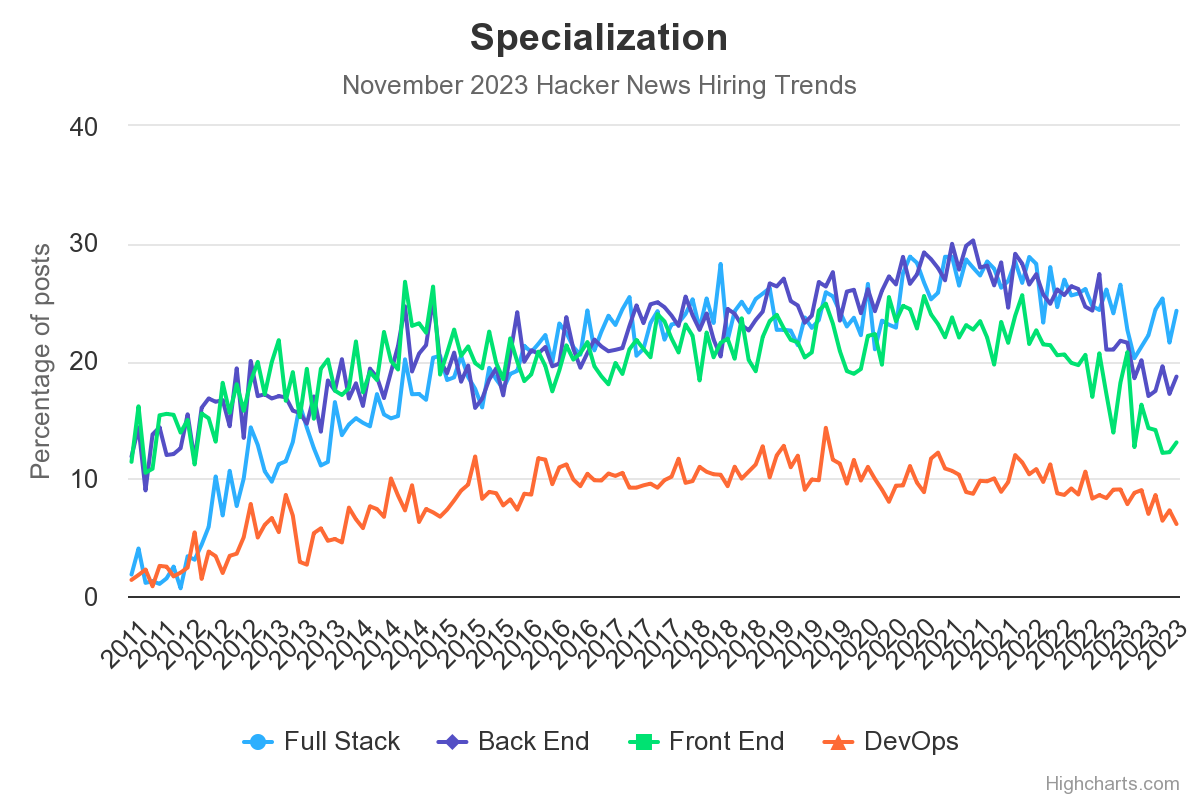
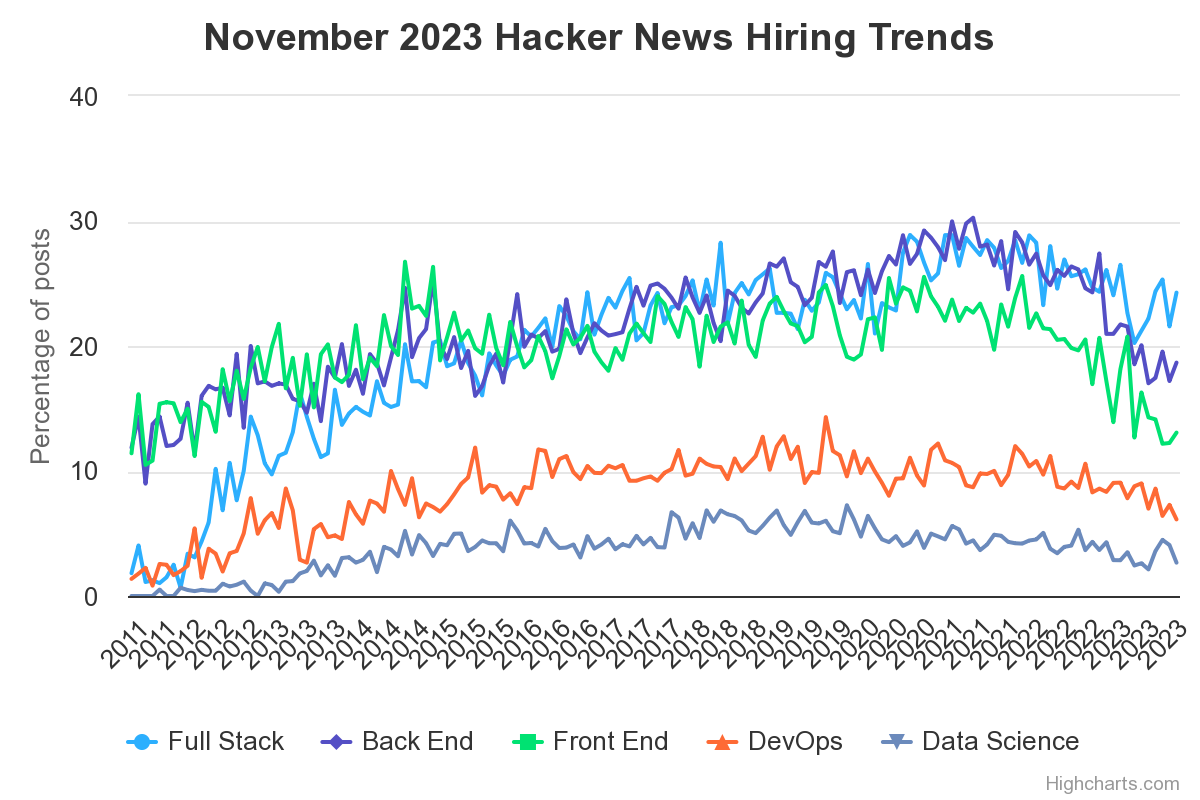
finishing up highlights

diff --git a/web/2023/november.html b/web/2023/november.html
@@ -4,10 +4,10 @@
   <meta charset="utf-8" />
   <meta name="viewport" content="width=device-width, initial-scale=1">
 
-  <title>November 2023 Hacker News Hiring Trends</title>
+  <title>Number of job postings climbing: up 20% in last two months</title>
   <meta property="og:site_name" content="Hacker News Hiring Trends" />
   <meta property="og:site" content="www.hntrends.com" />
-  <meta property="og:title" content="headline - Hacker News Hiring Trends (November 2023)" />
+  <meta property="og:title" content="Number of job postings climbing: up 20% in last two months" />
   <meta property="og:description" content="Most Popular programming languanges and software development technologies for November, 2023">
   <meta property="og:image" content="https://www.hntrends.com/images/202311-ask-hn-who-is-hiring-tot.png" />
   <meta property="og:url" content="https://www.hntrends.com/" />
@@ -15,7 +15,7 @@
   <meta name="description" content="Most Popular programming languanges and software development technologies for November, 2023">
   <meta name="twitter:card" content="summary_large_image" />
   <meta name="twitter:site" content="@ryanwi" />
-  <meta name="twitter:title" content="headline - Hacker News Hiring Trends (November 2023)" />
+  <meta name="twitter:title" content="Number of job postings climbing: up 20% in last two months" />
   <meta name="twitter:description" content="Most Popular programming languanges and software development technologies for November, 2023" />
   <meta name="twitter:image" content="https://www.hntrends.com/images/202311-ask-hn-who-is-hiring-tot.png" />
   <link rel="me" href="https://twitter.com/ryanwi">
@@ -39,7 +39,7 @@
 
   <div class="page-header">
     <h1>
-      November 2023 Hacker News Hiring Trends
+      Number of job postings climbing: up 20% in last two months
     </h1>
     <p class="lead">
       November 2023 Hacker News Hiring Trends
@@ -92,43 +92,44 @@
   <div class="row">
     <div class="col-md-9">
       <h3 id="highlights">November Highlights</h3>
-      <div class="post-date">Friday, November 24, 2023</div>
+      <div class="post-date">Saturday, November 25, 2023</div>
       <p>
+        November's <a href="https://news.ycombinator.com/item?id=38099086">Ask HN: Who is hiring?</a> thread showed continued growth with 375 postings, up 20% from the near all-time low in September, and up 10% over October's thread. This is a positive sign after months of declines. However, on a year-over-year basis, we're still way off of the 2022 numbers (down 30%) and the 2021 numbers dwarf where we are today (down 61% since November, 2021).
       </p>
-
       <div id="total_postings_history_chart" style="width:100%; height:300px;" class="mb-5"></div>
+      <p>
+        Technology-wise, everything remains relatively stable in November. Let's take a look at some areas of note.
+      </p>
 
       <div class="analysis-section p-3">
         <h4>Top 10 Programming Languages</h4>
         <p>
-          Python and TypeScript are still cruising in the top two spots for
-          most popular programming languages. The rest of the pack are fairly
-          steady although Kotlin makes a rare appearance in the Top 10 this
-          month.
-        </p>
-        <p>
-          <figure class="figure">
-            <a href="?compare=Python&amp;compare=TypeScript&amp;compare=golang&amp;compare=Java&amp;compare=JavaScript&amp;compare=C%2B%2B&amp;compare=Ruby&amp;compare=Rust&amp;compare=Kotlin&amp;compare=C"><image src="/images/202311-top-10-programming-langu.png" class="img-fluid rounded" /></a>
-            <figcaption class="figure-caption"><a href="?compare=Python&amp;compare=TypeScript&amp;compare=golang&amp;compare=Java&amp;compare=JavaScript&amp;compare=C%2B%2B&amp;compare=Ruby&amp;compare=Rust&amp;compare=Kotlin&amp;compare=C">Compare Top 10 Programming Languages</a></figcaption>
-          </figure>
+          Python, TypeScript, and Go remain in the Top 3 spots. One notable change in November is C++, jumping into the fourth spot. Not bad for the nearly 40 year old language.
         </p>
         <ol>
           <li><a href="?compare=Python">Python</a></li>
           <li><a href="?compare=TypeScript">TypeScript</a></li>
           <li><a href="?compare=golang">Go</a></li>
-          <li value="4"><a href="?compare=Java">Java</a></li>
-          <li value="4"><a href="?compare=JavaScript">JavaScript</a></li>
-          <li value="6"><a href="?compare=C%2B%2B">C++</a></li>
-          <li value="7"><a href="?compare=Ruby">Ruby</a></li>
+          <li><a href="?compare=C%2B%2B">C++</a></li>
+          <li><a href="?compare=Ruby">Ruby</a></li>
+          <li><a href="?compare=Java">Java</a></li>
+          <li><a href="?compare=JavaScript">JavaScript</a></li>
+          <li value="8"><a href="?compare=C">C</a></li>
           <li value="8"><a href="?compare=Rust">Rust</a></li>
-          <li value="9"><a href="?compare=Kotlin">Kotlin</a></li>
-          <li value="10"><a href="?compare=C">C</a></li>
+          <li value="10"><a href="?compare=SQL">SQL</a></li>
         </ol>
+        <p>
+          <figure class="figure">
+            <a href="?compare=Python&amp;compare=TypeScript&amp;compare=golang&amp;compare=Java&amp;compare=JavaScript&amp;compare=C%2B%2B&amp;compare=Ruby&amp;compare=Rust&amp;compare=Kotlin&amp;compare=C"><image src="/images/202311-top-10-programming-langu.png" class="img-fluid rounded" /></a>
+            <figcaption class="figure-caption"><a href="?compare=Python&amp;compare=TypeScript&amp;compare=golang&amp;compare=Java&amp;compare=JavaScript&amp;compare=C%2B%2B&amp;compare=Ruby&amp;compare=Rust&amp;compare=SQL&amp;compare=C">Compare Top 10 Programming Languages</a></figcaption>
+          </figure>
+        </p>
       </div>
 
       <div class="analysis-section p-3">
         <h4>Artificial Intelligence (AI)</h4>
         <p>
+          While not a big jump from month-to-month in November, AI still shows its strength as a big mover this year. AI edged closer to being mentioned in 20% of postings. AI has nearly doubled in the past 12 months.
         </p>
         <p>
           <figure class="figure">
@@ -143,6 +144,7 @@
       <div class="analysis-section p-3">
         <h4>Remote Work</h4>
         <p>
+          Remote positions accounded for 61% of postings in November, getting back over 60% after a slight dip in October to 57%. Remote positions are still in the general area of where they've been for the past 6 months. Onsite and Hybrid have remained relatively steady.
         </p>
         <p>
           <figure class="figure">
@@ -157,12 +159,13 @@
       <div class="analysis-section p-3">
         <h4>Specialization</h4>
         <p>
+          Specicalization keywords track the growth of different areas of engineering focus including Full-Stack, Front-end, and Back-end developers. Front-end in particular has been seeing steady drops over the past couple years. It peaked at just over 25% in January, 2022, but has dropped to 13% in November, 2023, a drop of 12%. Back-end has also been trending down over the last year with its own 10% drop from 28% to 18%. This could be a result of the industry broadening into more types of development. AI/ML and Data management come to mind as growing areas of focus and specialization.
         </p>
         <p>
           <figure class="figure">
             <a href="?compare=Front+End&amp;compare=Back+End&amp;compare=Full+Stack&amp;compare="><image src="/images/202311-specialization.png" class="img-fluid rounded" /></a>
             <figcaption class="figure-caption">
-              <a href="?compare=Front+End&amp;compare=Back+End&amp;compare=Full+Stack&amp;compare=">Compare Full Stack, Frontend, and Backend</a>
+              <a href="?compare=Front+End&amp;compare=Back+End&amp;compare=Full+Stack&amp;compare=DevOps&amp;compare=Data+Science">Compare Full Stack, Front-end, Back-end, DevOps, and Data Science</a>
             </figcaption>
           </figure>
         </p>
@@ -171,6 +174,7 @@
       <div class="analysis-section p-3">
         <h4>Engineering Levels</h4>
         <p>
+          While the title of Senior Software Engineer has been a consistent level across the industry for more than a decade, the titles of Staff Software Engineer and Principal Software Engineer (often referred to as Staff+ in many books and articles) have emerged over the last few years. From the data, we can see the growth in Staff level positions has really picked up over the last year, reaching 10% in October and fallinb back slightly to abouto 8% in November.
         </p>
         <p>
           <figure class="figure">

diff --git a/web/index.html b/web/index.html
@@ -47,10 +47,10 @@
     <div class="col-md-9" role="main">
 
       <div class="post">
-        <h3><a href="2023/november.html">Three notable trends: Rising AI and Staff Roles, Falling Front-end</a></h3>
+        <h3><a href="2023/november.html">Number of job postings climbing: up 20% in last two months</a></h3>
         <div class="post-date">Saturday, November 25, 2023</div>
         <p>
-
+          November's <a href="https://news.ycombinator.com/item?id=38099086">Ask HN: Who is hiring?</a> thread showed continued growth with 375 postings, up 20% from the near all-time low in September, and up 10% over October's thread. This is a positive sign after months of declines. However, on a year-over-year basis, we're still way off of the 2022 numbers (down 30%) and the 2021 numbers dwarf where we are today (down 61% since November, 2021).
         </p>
         <p>
           <a href="2023/november.html"><img src="/images/202311-ask-hn-who-is-hiring-tot.svg" alt="Total Job Postings on whoishiring for November, 2023" class="img-fluid" /></a>
